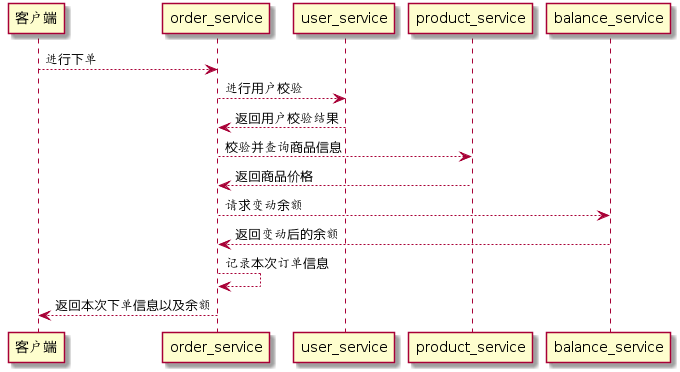
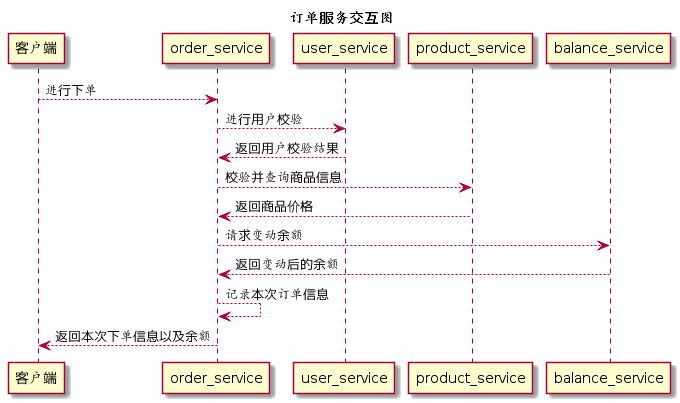
update readme

diff --git a/README.md b/README.md
@@ -28,5 +28,6 @@
 # 微服务思考
 ## 服务拆分
 1. 服务拆分尽可能细致，服务内部逻辑尽可能简单；对于有数据存储有状态的微服务，不能共享数据库表，数据共享以微服务接口形式提供;服务内部的实现只依赖接口定义，不依赖其他服务内部逻辑；另外，具有强一致性要求的一组业务概念，属于同一个聚合，不建议拆到不同服务中,尽量避免分布式事务
+
 ## 服务治理
-2. 需要提供日志串联功能，需要有服务发现功能，需要有集群状态,server性能实时监控告警功能，同时也有故障现场保存功能
+1. 需要提供日志串联功能，需要有服务发现功能，需要有集群状态,server性能实时监控告警功能，同时也有故障现场保存功能

diff --git a/doc/order_sequence.md b/doc/order_sequence.md
@@ -1,5 +1,5 @@
 @startuml
-
+title 订单服务交互图
 客户端 --> order_service : 进行下单
 order_service --> user_service : 进行用户校验
 user_service --> order_service : 返回用户校验结果

diff --git a/doc/order.md b/doc/order.md
@@ -1,4 +1,6 @@
 @startuml
+title 单集群下单服务架构图
+
 left to right direction
 actor client
 
